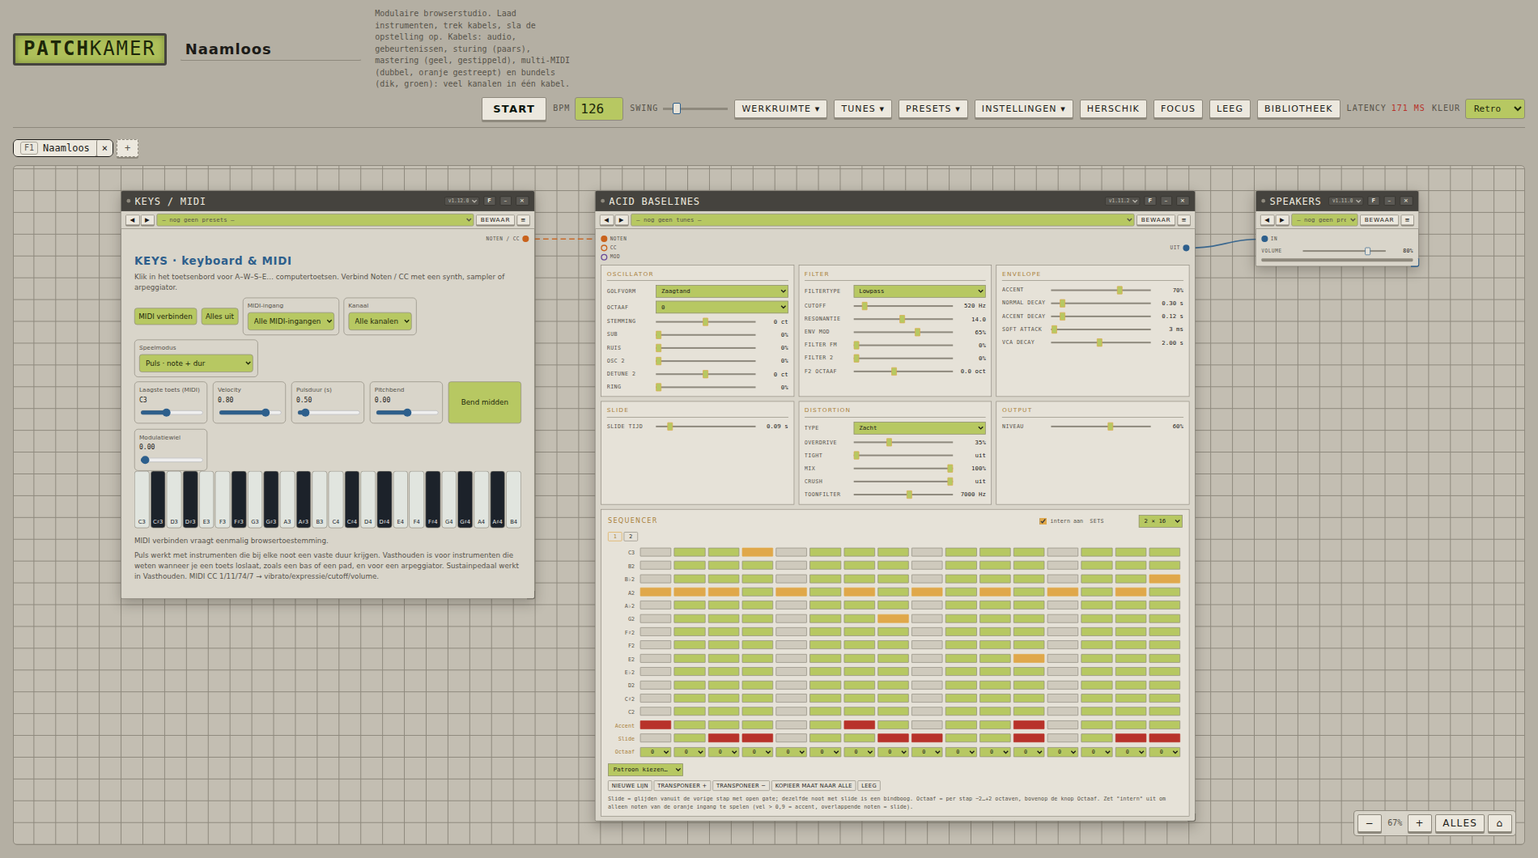
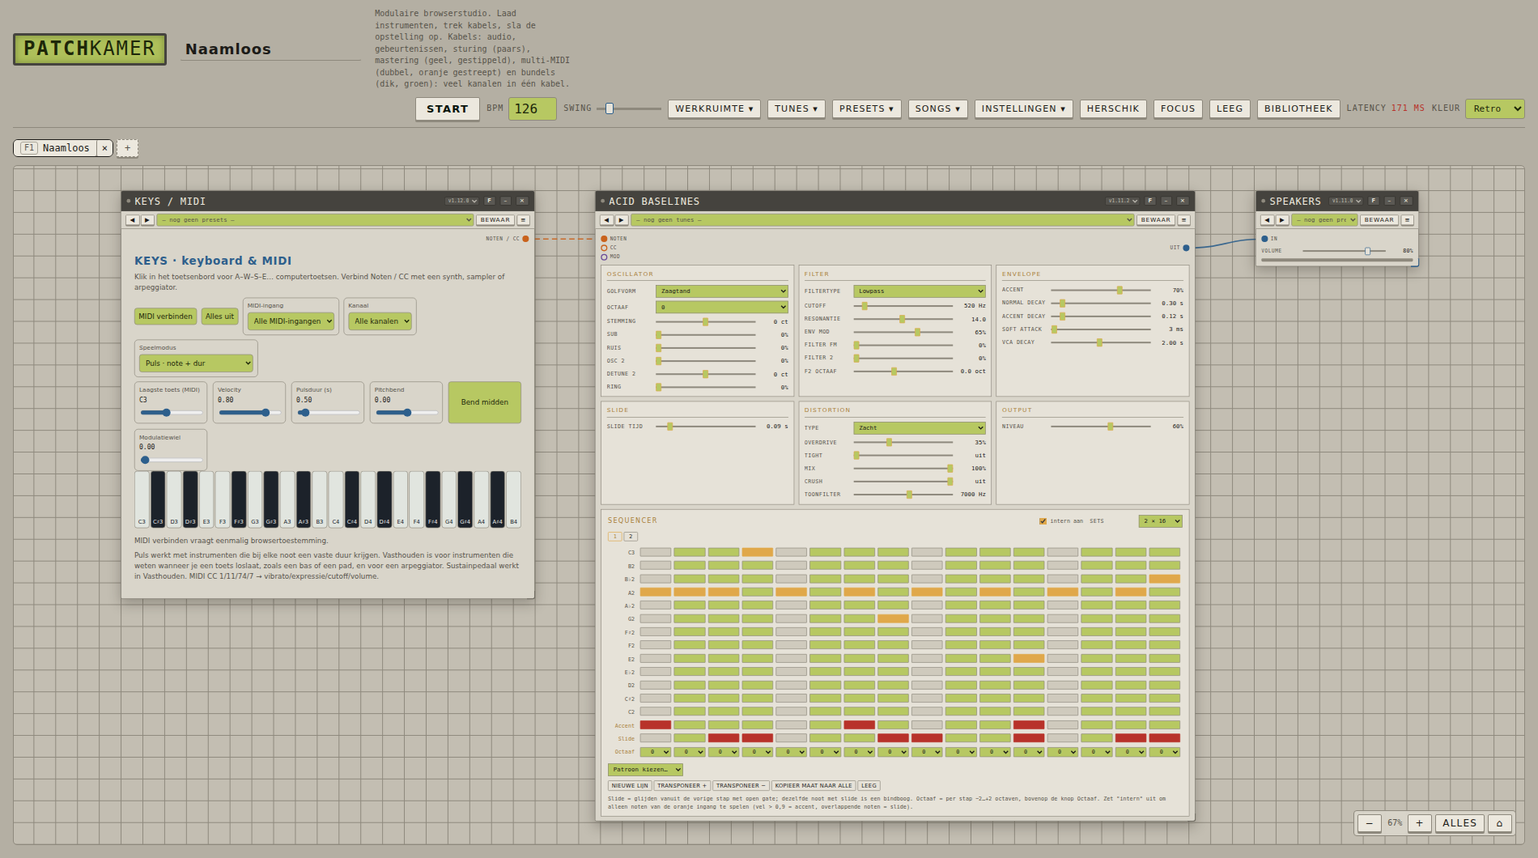
Host: knop Songs met demo's van GitHub, recente songs en bestand openen; een song opent in een nieuwe werkruimte en wordt herschikt; handleiding en schermafbeeldingen bijgewerkt

Changed region(s): [[0.2484, 0.0934, 0.6211, 0.1557]]

diff --git a/patchkamer/patchkamer.html b/patchkamer/patchkamer.html
@@ -411,7 +411,7 @@ body.nopbar .pbar{display:none}
     <span class="tp"><span data-i18n="ui.bpm">BPM</span> <input type="number" id="bpm" min="40" max="200" value="126"></span>
     <span class="tp"><span data-i18n="ui.swing">Swing</span> <input type="range" id="swing" min="0" max="0.5" step="0.01" value="0.08" style="width:80px"></span>
     <button class="small" id="wsBtn" aria-expanded="false" aria-controls="wsPanel" data-i18n="ui.werkruimte">Werkruimte ▾</button>
-    <button class="small" id="prBtn" aria-expanded="false" aria-controls="prPanel" title="klanken van apparaten die geluid maken" data-i18n-title="attr.klanken_van_apparaten_die_geluid" data-i18n="ui.tunes">Tunes ▾</button><button class="small" id="psBtn" aria-expanded="false" aria-controls="prPanel" title="instellingen van effecten, mixers, mastering, sequencers en andere apparaten zonder eigen geluid" data-i18n-title="attr.instellingen_van_effecten_mixers_mastering" data-i18n="ui.presets">Presets ▾</button><button class="small" id="setBtn" aria-expanded="false" aria-controls="setPanel" title="instellingen van Patchkamer zelf" data-i18n-title="attr.instellingen_van_patchkamer_zelf" data-i18n="ui.instellingen">Instellingen ▾</button>
+    <button class="small" id="prBtn" aria-expanded="false" aria-controls="prPanel" title="klanken van apparaten die geluid maken" data-i18n-title="attr.klanken_van_apparaten_die_geluid" data-i18n="ui.tunes">Tunes ▾</button><button class="small" id="psBtn" aria-expanded="false" aria-controls="prPanel" title="instellingen van effecten, mixers, mastering, sequencers en andere apparaten zonder eigen geluid" data-i18n-title="attr.instellingen_van_effecten_mixers_mastering" data-i18n="ui.presets">Presets ▾</button><button class="small" id="songBtn" aria-expanded="false" aria-controls="songPanel" title="songs openen: demo's van GitHub en recente songs" data-i18n-title="attr.songs_open_titel" data-i18n="ui.songs_knop">Songs ▾</button><button class="small" id="setBtn" aria-expanded="false" aria-controls="setPanel" title="instellingen van Patchkamer zelf" data-i18n-title="attr.instellingen_van_patchkamer_zelf" data-i18n="ui.instellingen">Instellingen ▾</button>
     <button class="small" id="arrange" title="apparaten netjes van links naar rechts zetten: bronnen → instrumenten → effecten → mengpaneel → uitgang (Ctrl+Z zet terug)" data-i18n-title="attr.apparaten_netjes_van_links_naar" data-i18n="ui.herschik">Herschik</button>
     <button class="small" id="focusBtn" title="focusweergave: de apparaten met [f] naast of onder elkaar, zonder ze op het canvas te verplaatsen (Alt+F)" data-i18n-title="attr.focusweergave_de_apparaten_met_f" data-i18n="ui.focus">Focus</button>
     <button class="small danger" id="clear" data-i18n="ui.leeg">Leeg</button>
@@ -455,6 +455,23 @@ body.nopbar .pbar{display:none}
   
   <div class="note" data-i18n-html="ui.een_tune_of_preset_is">Een tune of preset is de instelling van één apparaat (alle knoppen, patronen en keuzes), niet de kabels. Kies op de kaart, of blader met ◀ ▶. <b data-i18n="ui.bewaar">Bewaar</b> legt de huidige instelling vast in een bibliotheek en map, met jouw naam als maker en een licentie (CC-BY-4.0 of alle rechten voorbehouden); een cursieve naam betekent dat je sindsdien iets hebt veranderd. Ieder exemplaar krijgt een eigen kopie. Drumcomputers hebben een tweede regel <b data-i18n="ui.instrument">Instrument</b>: één geluid (bijv. de kick) als tune laden of bewaren. De licentie zie je bij het laden en bij elk item hieronder.</div>
 </section>
+<section class="wspanel" id="songPanel" hidden aria-label="Songs" data-i18n-aria="attr.songs_paneel">
+  <button class="small close" id="songClose" title="sluiten" data-i18n-title="attr.sluiten">×</button>
+  <div>
+    <h3 data-i18n="ui.songs_kop">Songs</h3>
+    <div class="note" style="margin-bottom:6px" data-i18n="ui.songs_uitleg">Een song opent in een nieuwe werkruimte-tab en de apparaten worden daarna herschikt. Ontbreken er apparaten, dan laadt Patchkamer eerst de apparatenbibliotheek uit Instellingen.</div>
+    <div class="wsrow"><button class="small" id="songFileBtn" data-i18n="ui.songs_bestand">Bestand openen…</button><input type="file" id="songFile" accept=".json,application/json" hidden></div>
+  </div>
+  <div>
+    <h3 data-i18n="ui.songs_recent">Recent</h3>
+    <div class="wslist" id="songRecent"></div>
+  </div>
+  <div>
+    <h3 data-i18n="ui.songs_demos">Demo's op GitHub</h3>
+    <div class="wsrow"><button class="small" id="songRefresh" data-i18n="ui.songs_vernieuwen">Vernieuwen</button></div>
+    <div class="wslist" id="songDemo" style="margin-top:6px"></div>
+  </div>
+</section>
 <section class="wspanel" id="setPanel" hidden aria-label="Instellingen" data-i18n-aria="attr.instellingen">
   <button class="small close" id="setClose" title="sluiten" data-i18n-title="attr.sluiten">×</button>
   <div>
@@ -481,6 +498,8 @@ body.nopbar .pbar{display:none}
   <div class="wsrow"><input type="text" id="wsuPre" class="wsurl" spellcheck="false" aria-label="adres van de presets" data-i18n-aria="attr.adres_presets"></div>
   <div class="wsrow"><label><input type="checkbox" id="wsaTun"> <span data-i18n="ui.tunes_laden">Tunes laden</span></label></div>
   <div class="wsrow"><input type="text" id="wsuTun" class="wsurl" spellcheck="false" aria-label="adres van de tunes" data-i18n-aria="attr.adres_tunes"></div>
+  <div class="wsrow"><label><span data-i18n="ui.songs_adres">Songs (demo's): adres op GitHub</span>&nbsp;<input type="text" id="songAddr" class="wsurl" spellcheck="false"></label></div>
+  <div class="wsrow"><button class="small" id="songAddrReset" data-i18n="ui.songs_adres_herstel">Standaardadres herstellen</button></div>
   <div class="wsrow"><button class="small" id="wsaReset" data-i18n="ui.standaardadressen_herstellen">Standaardadressen herstellen</button></div>
   <h3 style="margin-top:12px" data-i18n="ui.weergave">Weergave</h3>
   <div class="wsrow"><label><span data-i18n="ui.kabels">Kabels</span>&nbsp;<select id="cabStyle"><option value="curve" data-i18n="ui.in_een_boog">in een boog</option><option value="orth" data-i18n="ui.recht_met_hoeken">recht, met hoeken</option><option value="route" data-i18n="ui.recht_om_de_apparaten_heen">recht, om de apparaten heen</option></select></label></div>
@@ -872,6 +891,27 @@ const I18N={
    "m.scan_packs_gewijzigd":"{0} gewijzigde packs",
    "m.badge_nieuw":"nieuw",
    "m.badge_gewijzigd":"gewijzigd",
+   "ui.songs_knop":"Songs ▾",
+   "attr.songs_open_titel":"songs openen: demo's van GitHub en recente songs",
+   "attr.songs_paneel":"Songs",
+   "ui.songs_kop":"Songs",
+   "ui.songs_uitleg":"Een song opent in een nieuwe werkruimte-tab en de apparaten worden daarna herschikt. Ontbreken er apparaten, dan laadt Patchkamer eerst de apparatenbibliotheek uit Instellingen.",
+   "ui.songs_bestand":"Bestand openen…",
+   "ui.songs_recent":"Recent",
+   "ui.songs_demos":"Demo's op GitHub",
+   "ui.songs_vernieuwen":"Vernieuwen",
+   "ui.songs_adres":"Songs (demo's): adres op GitHub",
+   "ui.songs_adres_herstel":"Standaardadres herstellen",
+   "m.songs_ongeldig":"Dit is geen geldige song of werkruimte.",
+   "m.songs_vol":"Alle 10 werkruimtes zijn in gebruik: sluit er eerst een.",
+   "m.songs_bibliotheek_laden":"Apparatenbibliotheek laden…",
+   "m.songs_openen_mislukt":"Song openen mislukt: {0}",
+   "m.songs_geen_recent":"Nog geen recente songs.",
+   "m.songs_laden":"Songs ophalen…",
+   "m.songs_ophalen_mislukt":"Kon de songs niet ophalen: {0}",
+   "m.songs_geen_demos":"Geen demo-songs gevonden op dit adres.",
+   "m.songs_verwijder":"Uit de lijst halen",
+   "m.songs_bestand_opnieuw":"Deze song is niet bewaard: open het bestand opnieuw.",
    "m.mastering_categorie":"Mastering",
    "attr.werkruimtes_tabs":"Werkruimtes",
    "m.werkruimte_toevoegen":"Werkruimte toevoegen",
@@ -1449,6 +1489,27 @@ const I18N={
    "m.scan_packs_gewijzigd":"{0} changed packs",
    "m.badge_nieuw":"new",
    "m.badge_gewijzigd":"changed",
+   "ui.songs_knop":"Songs ▾",
+   "attr.songs_open_titel":"open songs: demos from GitHub and recent songs",
+   "attr.songs_paneel":"Songs",
+   "ui.songs_kop":"Songs",
+   "ui.songs_uitleg":"A song opens in a new workspace tab and the devices are arranged afterwards. If devices are missing, Patchkamer first loads the device library from Settings.",
+   "ui.songs_bestand":"Open file…",
+   "ui.songs_recent":"Recent",
+   "ui.songs_demos":"Demos on GitHub",
+   "ui.songs_vernieuwen":"Refresh",
+   "ui.songs_adres":"Songs (demos): address on GitHub",
+   "ui.songs_adres_herstel":"Restore default address",
+   "m.songs_ongeldig":"This is not a valid song or workspace.",
+   "m.songs_vol":"All 10 workspaces are in use: close one first.",
+   "m.songs_bibliotheek_laden":"Loading the device library…",
+   "m.songs_openen_mislukt":"Opening the song failed: {0}",
+   "m.songs_geen_recent":"No recent songs yet.",
+   "m.songs_laden":"Fetching songs…",
+   "m.songs_ophalen_mislukt":"Could not fetch the songs: {0}",
+   "m.songs_geen_demos":"No demo songs found at this address.",
+   "m.songs_verwijder":"Remove from the list",
+   "m.songs_bestand_opnieuw":"This song was not stored: open the file again.",
    "m.mastering_categorie":"Mastering",
    "attr.werkruimtes_tabs":"Workspaces",
    "m.werkruimte_toevoegen":"Add workspace",
@@ -3742,5 +3803,61 @@ function pkAiMount(el,k){
   paint(); })();
 
 { const d=pkAiDef(); d._builtin=true; Host.registry.set(Host.key(d.id,d.version),d); paintLib(); }
+/* =====================================================================
+   SONGS · knop in de kopbalk: demo's van GitHub en recente songs. Een song opent in een nieuwe werkruimte-tab en de apparaten worden daarna herschikt.
+   ===================================================================== */
+const SONG_ADDR_KEY='patchkamerSongsAddr', SONG_ADDR_DEF='github.com/unboxednl/patchkamer/tree/main/songs', SONGREC_MAX=12, SONG_MAXBYTES=4000000;
+let SONGREC=[], SONG_DEMO=null, SONG_DEMO_ERR='', SONG_BUSY=false;
+function songAddr(){ let a=''; try{ a=localStorage.getItem(SONG_ADDR_KEY)||''; }catch(e){} return a.trim()||SONG_ADDR_DEF; }
+const songPanel=$('songPanel'), songBtn=$('songBtn');
+function songRecSave(){ IDB.set('songs:recent',SONGREC); }
+function songRecAdd(e){ SONGREC=[e,...SONGREC.filter(x=>x.key!==e.key)].slice(0,SONGREC_MAX); songRecSave(); }
+function songTitleOf(o){ return String((o&&(o.title||(o.workspace&&o.workspace.name)||o.name))||pkt('m.naamloos')).slice(0,80); }
+function songDevicesOf(o){ const w=o&&o.format==='patchkamer-song'?o.workspace:o; return w&&Array.isArray(w.devices)?w.devices:null; }
+async function songOpen(obj,meta){   // obj = song of werkruimte (geparsed); meta = {key,url?,name?,text?}
+  if(SONG_BUSY) return false; const devs=songDevicesOf(obj); if(!devs){ status(pkt('m.songs_ongeldig'),true); return false; }
+  if(typeof WSL==='undefined'||!WSL.ready){ status(pkt('m.songs_ongeldig'),true); return false; }
+  if(WSL.slots.length>=WSL_MAX){ status(pkt('m.songs_vol'),true); return false; }
+  SONG_BUSY=true;
+  try{ if(devs.some(d=>!Host.latest(d.def))){ status(pkt('m.songs_bibliotheek_laden')); try{ await wsaLoad('dev',false); }catch(e){} }
+    await wslAdd(); const ok=await openWorkspace(obj);
+    if(ok){ songRecAdd({key:meta.key,title:songTitleOf(obj),author:String((obj&&obj.author)||'').slice(0,60),t:Date.now(),url:meta.url||'',name:meta.name||'',text:meta.text&&meta.text.length<=SONG_MAXBYTES?meta.text:''});
+      setTimeout(()=>{ try{ if(Host.devices.size) $('arrange').click(); }catch(e){} },1300); closeSongs(); }
+    return ok; }
+  catch(e){ status(pkt('m.songs_openen_mislukt',e.message),true); return false; }
+  finally{ SONG_BUSY=false; } }
+async function songOpenUrl(url,name){ try{ const x=await fetch(url); if(!x.ok) throw new Error('HTTP '+x.status); const text=await x.text(); return songOpen(JSON.parse(text),{key:url,url,name}); }catch(e){ status(pkt('m.songs_openen_mislukt',e.message),true); return false; } }
+async function songDemoLoad(force){ SONG_DEMO_ERR=''; try{ let p=null; try{ p=parseSourceUrl(songAddr()); }catch(e){} if(!p||p.kind!=='github') throw new Error(pkt('m.geen_geldig_adres'));
+    if(!p.ref){ const j=await fetchJSON(`https://api.github.com/repos/${p.owner}/${p.repo}`); p.ref=j.default_branch||'main'; }
+    if(force) PKAI_TREE.delete(p.owner+'/'+p.repo+'@'+p.ref);
+    const t=await pkAiTree({owner:p.owner,repo:p.repo,ref:p.ref}), base=p.path?p.path.replace(/\/$/,'')+'/':'';
+    SONG_DEMO=(t.tree||[]).filter(n=>n.type==='blob'&&n.path.startsWith(base)&&/\.patchkamer(-song)?\.json$/i.test(n.path)).map(n=>({path:n.path,url:`https://raw.githubusercontent.com/${p.owner}/${p.repo}/${p.ref}/${n.path.split('/').map(encodeURIComponent).join('/')}`,name:wsNameOf(n.path).replace(/[-_]+/g,' ').replace(/\b\w/g,c=>c.toUpperCase())})).sort((a,b)=>a.name.localeCompare(b.name)); }
+  catch(e){ SONG_DEMO=[]; SONG_DEMO_ERR=e.message; } songPaint(); }
+function songPaint(){
+  const rec=$('songRecent'), demo=$('songDemo'); rec.innerHTML=''; demo.innerHTML=''; const lang=(typeof PK_LANG!=='undefined'&&PK_LANG)||'en';
+  const item=(title,sub,btns)=>{ const it=document.createElement('div'); it.className='wsitem'; const info=document.createElement('div'); info.style.minWidth='0'; info.innerHTML=`<span class="nm">${esc(title)}</span><small>${esc(sub)}</small>`; const b=document.createElement('div'); b.className='b'; btns.forEach(x=>b.appendChild(x)); it.append(info,b); return it; };
+  const btn=(label,title,fn)=>{ const x=document.createElement('button'); x.className='small'; x.textContent=label; if(title) x.title=title; x.onclick=fn; return x; };
+  if(!SONGREC.length){ const e=document.createElement('div'); e.className='note'; e.textContent=pkt('m.songs_geen_recent'); rec.appendChild(e); }
+  SONGREC.forEach(r=>{ const sub=[r.author,new Date(r.t).toLocaleString(lang)].filter(Boolean).join(' · ');
+    const open=btn(pkt('m.openen'),'',async()=>{ if(r.url){ await songOpenUrl(r.url,r.name); } else if(r.text){ try{ await songOpen(JSON.parse(r.text),{key:r.key,name:r.name,text:r.text}); }catch(e){ status(pkt('m.songs_openen_mislukt',e.message),true); } } else status(pkt('m.songs_bestand_opnieuw'),true); });
+    const rm=btn('×',pkt('m.songs_verwijder'),()=>{ SONGREC=SONGREC.filter(x=>x!==r); songRecSave(); songPaint(); });
+    rec.appendChild(item(r.title,sub||(r.url?'GitHub':''),[open,rm])); });
+  if(SONG_DEMO===null){ const e=document.createElement('div'); e.className='note'; e.textContent=pkt('m.songs_laden'); demo.appendChild(e); }
+  else if(SONG_DEMO_ERR){ const e=document.createElement('div'); e.className='note'; e.textContent=pkt('m.songs_ophalen_mislukt',SONG_DEMO_ERR); demo.appendChild(e); }
+  else if(!SONG_DEMO.length){ const e=document.createElement('div'); e.className='note'; e.textContent=pkt('m.songs_geen_demos'); demo.appendChild(e); }
+  (SONG_DEMO||[]).forEach(d=>demo.appendChild(item(d.name,d.path,[btn(pkt('m.openen'),'',()=>songOpenUrl(d.url,d.name))]))); }
+function openSongs(){ if(!wsPanel.hidden) closeWs(); if(!$('prPanel').hidden) prClosePanel(); if(typeof closeSettings==='function') closeSettings(); songPanel.hidden=false; songBtn.setAttribute('aria-expanded','true'); songBtn.classList.add('on'); songPaint(); if(SONG_DEMO===null) songDemoLoad(false); }
+function closeSongs(){ songPanel.hidden=true; songBtn.setAttribute('aria-expanded','false'); songBtn.classList.remove('on'); }
+songBtn.onclick=e=>{ e.stopPropagation(); songPanel.hidden?openSongs():closeSongs(); }; $('songClose').onclick=closeSongs;
+document.addEventListener('pointerdown',e=>{ if(!songPanel.hidden&&!e.target.closest('#songPanel,#songBtn,.pkmodal')) closeSongs(); });
+document.addEventListener('keydown',e=>{ if(e.key==='Escape'&&!songPanel.hidden&&!document.querySelector('.pkmodal')) closeSongs(); });
+$('songRefresh').onclick=()=>{ SONG_DEMO=null; songPaint(); songDemoLoad(true); };
+$('songFileBtn').onclick=()=>{ $('songFile').value=''; $('songFile').click(); };
+$('songFile').addEventListener('change',async e=>{ const f=e.target.files[0]; if(!f) return; let text, obj; try{ text=await f.text(); obj=JSON.parse(text); }catch(err){ status(pkt('m.dit_bestand_is_geen_leesbare'),true); return; }
+  if(!obj.name&&obj.format!=='patchkamer-song') obj.name=f.name.replace(/\.patchkamer\.json$|\.json$/i,''); await songOpen(obj,{key:'file:'+f.name+':'+f.size,name:f.name,text}); });
+document.addEventListener('keydown',e=>{ if(e.key==='Escape'&&!songPanel.hidden) closeSongs(); });
+{ const a=$('songAddr'); if(a){ a.value=songAddr(); a.onchange=()=>{ const v=a.value.trim(); try{ if(v&&v!==SONG_ADDR_DEF) localStorage.setItem(SONG_ADDR_KEY,v); else localStorage.removeItem(SONG_ADDR_KEY); }catch(e){} a.value=songAddr(); SONG_DEMO=null; }; }
+  const r=$('songAddrReset'); if(r) r.onclick=()=>{ try{ localStorage.removeItem(SONG_ADDR_KEY); }catch(e){} $('songAddr').value=SONG_ADDR_DEF; SONG_DEMO=null; }; }
+IDB.get('songs:recent').then(v=>{ SONGREC=Array.isArray(v)?v.filter(x=>x&&x.key&&x.title).slice(0,SONGREC_MAX):[]; if(!songPanel.hidden) songPaint(); });
 })();
 </script>

diff --git a/docs/USER-MANUAL_NL.md b/docs/USER-MANUAL_NL.md
@@ -58,6 +58,7 @@ Patchkamer volgt de taal van je browser: Nederlands of Engels. Je wijzigt dat on
 | **BPM**, **Swing** | Tempo (40–200) en swing van de klok. |
 | **Werkruimte** | Bewaar, open en exporteer je opstelling (onderdeel 8). |
 | **Tunes**, **Presets** | De bibliotheken met klanken en instellingen (onderdeel 7). |
+| **Songs** | Opent een song: de demo's van GitHub, je recente songs of een bestand (onderdeel 8). |
 | **Instellingen** | Taal, audiokwaliteit, weergave en meer (onderdeel 10). |
 | **Herschik** | Zet je apparaten netjes op volgorde, van links naar rechts. |
 | **Focus** | Toont de apparaten die je met **F** hebt gemarkeerd naast elkaar (onderdeel 9). |
@@ -162,6 +163,8 @@ Je **werkruimte** is de hele opstelling: apparaten met hun instellingen en patro
 - **Exporteer als song…** maakt een deelbaar bestand (`.patchkamer-song.json`) met alle apparaatcode, een titel, de maker en een licentie. Iemand anders kan het openen zonder bibliotheek.
 - **Nieuwe lege werkruimte** begint opnieuw.
 
+**Songs.** De knop **Songs** in de bovenbalk opent een song in een **nieuwe werkruimte-tab** en herschikt daarna de apparaten (**Ctrl+Z** zet terug). Hij toont de **demo-songs** uit de map `songs` van deze repository op GitHub, je **recente songs** (de laatste twaalf, ook bestanden die je opende) en **Bestand openen…**. Heeft een song apparaten nodig die nog niet in je bibliotheek staan, dan laadt Patchkamer eerst de apparatenbibliotheek uit **Instellingen → Nieuwe werkruimte**. Er kunnen tien werkruimtes open zijn: sluit er eerst een als ze allemaal in gebruik zijn.
+
 **Meer dan één werkruimte.** De tabbalk onder de bovenbalk bevat maximaal tien werkruimtes. Klik op een tab, of druk op **F1** t/m **F10**, om te wisselen. **+** voegt een nieuwe lege werkruimte toe; **×** sluit er een (Patchkamer vraagt eerst als er apparaten in staan, en de laatste kun je niet sluiten: gebruik **Leeg**). Elke werkruimte heeft eigen apparaten, kabels, tempo en naam, en alles in dit hoofdstuk werkt op de werkruimte waarin je zit. Bij het wisselen stopt de klok en start je hem zelf weer. Een nieuwe werkruimte laadt wat je koos onder **Instellingen → Nieuwe werkruimte**. Patchkamer bewaart je werkruimtes in je browser en opent ze de volgende keer weer.
 
 ![De tabbalk met drie werkruimtes](images/nl/11-workspaces.png)
@@ -183,6 +186,7 @@ Je **werkruimte** is de hele opstelling: apparaten met hun instellingen en patro
 - **Audio:** kies kwaliteit **Laag**, **Normaal** of **Hoog**, of stel **sample rate**, **latency** en **oversampling** zelf in. Hogere kwaliteit vraagt meer van je computer. Een wijziging laadt Patchkamer opnieuw en behoudt je werkruimte. Hoor je geknetter, kies dan een grotere latencybuffer (*Gebalanceerd* of *Stabiel*).
 - **Nieuwe werkruimte:** vink aan wat Patchkamer laadt als je met een lege werkruimte begint: **Apparatenbibliotheek laden**, **Presets laden**, **Tunes laden**. Onder elk vinkje staat het adres, standaard de mappen `devices`, `presets` en `tunes` van `github.com/unboxednl/patchkamer`. Alles onder de map wordt ingelezen. **Standaardadressen herstellen** zet de drie terug. De knop **Alles laden** in het Tunes- en Presets-paneel gebruikt dezelfde adressen. Alleen GitHub-adressen werken hier; een webadres of lokale map voeg je als bron toe in de bibliotheek.
 - **AI-assistent:** kies een aanbieder (**Anthropic**, **OpenAI** of een **eigen adres** voor elke OpenAI-compatibele dienst, zoals je eigen proxy, OpenRouter of een lokaal model), plak je **API-sleutel** en kies een **model** (**Modellen ophalen** vult de lijst). De sleutel staat alleen in deze browser (localStorage) en gaat alleen naar de aanbieder die je koos. Daaronder kun je instellen uit welke GitHub-repository de AI zijn documentatie leest, of **Eigen agent-instructies gebruiken** aanvinken en je eigen tekst schrijven: de AI gebruikt die dan in plaats van de GitHub-documentatie. **Sleutels wissen** haalt alle sleutels weg. Zie *AI Chat* in hoofdstuk 6.
+- **Adres van de songs:** onder **Nieuwe werkruimte** staat ook het adres van de demo-songs (standaard de map `songs` op GitHub); **Standaardadres herstellen** zet het terug.
 - **Weergave:** de stijl van de kabels, hun dekking, de schaal van de hele interface, schuif of draaiknop voor de knoppen van de host, en de tekstgrootte van menu's en bibliotheek.
 - **Kleur** (rechtsboven): donker, licht of retro.
 

diff --git a/docs/USER-MANUAL_EN.md b/docs/USER-MANUAL_EN.md
@@ -58,6 +58,7 @@ Patchkamer follows the language of your browser: Dutch or English. You can chang
 | **BPM**, **Swing** | Tempo (40–200) and swing of the clock. |
 | **Workspace** | Save, open and export your setup (section 8). |
 | **Tunes**, **Presets** | The libraries of sounds and settings (section 7). |
+| **Songs** | Opens a song: the demos from GitHub, your recent songs, or a file (section 8). |
 | **Settings** | Language, audio quality, display and more (section 10). |
 | **Arrange** | Puts your devices neatly in order, from left to right. |
 | **Focus** | Shows the devices you flagged with **F** next to each other (section 9). |
@@ -162,6 +163,8 @@ Your **workspace** is the whole setup: devices and their settings and patterns, 
 - **Export as song…** makes a shareable file (`.patchkamer-song.json`) that holds all device code, a title, the author and a license. Someone else can open it without any library.
 - **New empty workspace** starts again.
 
+**Songs.** The **Songs** button in the top bar opens a song in a **new workspace tab** and arranges the devices afterwards (**Ctrl+Z** undoes it). It lists the **demo songs** from the `songs` folder of this repository on GitHub, your **recent songs** (the last twelve, also files you opened) and **Open file…**. If a song needs devices that are not in your library yet, Patchkamer first loads the device library from **Settings → New workspace**. Up to ten workspaces can be open, so close one first when they are all in use.
+
 **More than one workspace.** The tab bar under the top bar holds up to ten workspaces. Click a tab, or press **F1** to **F10**, to switch. **+** adds a new empty workspace; **×** closes one (Patchkamer asks first if it holds devices, and the last one cannot be closed: use **Clear**). Every workspace has its own devices, cables, tempo and name, and everything in this section works on the workspace you are in. When you switch, the clock stops and you start it again yourself. A new workspace loads what you chose under **Settings → New workspace**. Patchkamer keeps your workspaces in your browser and opens them again the next time.
 
 ![The tab bar with three workspaces](images/en/11-workspaces.png)
@@ -183,6 +186,7 @@ Your **workspace** is the whole setup: devices and their settings and patterns, 
 - **Audio:** pick **Low**, **Normal** or **High** quality, or set **sample rate**, **latency** and **oversampling** yourself. Higher quality asks more of your computer. A change reloads Patchkamer and keeps your workspace. If you hear crackles, choose a larger latency buffer (*Balanced* or *Stable*).
 - **New workspace:** tick what Patchkamer loads when you start with an empty workspace: **Load the device library**, **Load presets**, **Load tunes**. Under each tick is the address, by default the `devices`, `presets` and `tunes` folders of `github.com/unboxednl/patchkamer`. Everything below the folder is read. **Restore default addresses** puts the three back. The **Load all** button in the Tunes and Presets panel uses the same addresses. Only GitHub addresses work here; a web address or local folder is added as a source in the library instead.
 - **AI assistant:** choose a provider (**Anthropic**, **OpenAI** or a **custom address** for any OpenAI-compatible service, such as your own proxy, OpenRouter or a local model), paste your **API key** and choose a **model** (**Fetch models** fills the list). The key is stored only in this browser (localStorage) and goes only to the provider you chose. Under it you can change which GitHub repository the AI reads its documentation from, or tick **Use my own agent instructions** and write your own: the AI then uses those instead of the GitHub documentation. **Clear keys** removes all keys. See *AI Chat* in section 6.
+- **Songs address:** under **New workspace** you also find the address of the demo songs (by default the `songs` folder on GitHub); **Restore default address** puts it back.
 - **Display:** the style of the cables, their opacity, the scale of the whole interface, slider or rotary knobs for the host controls, and the text size of menus and library.
 - **Color** (top right): dark, light or retro.
 
